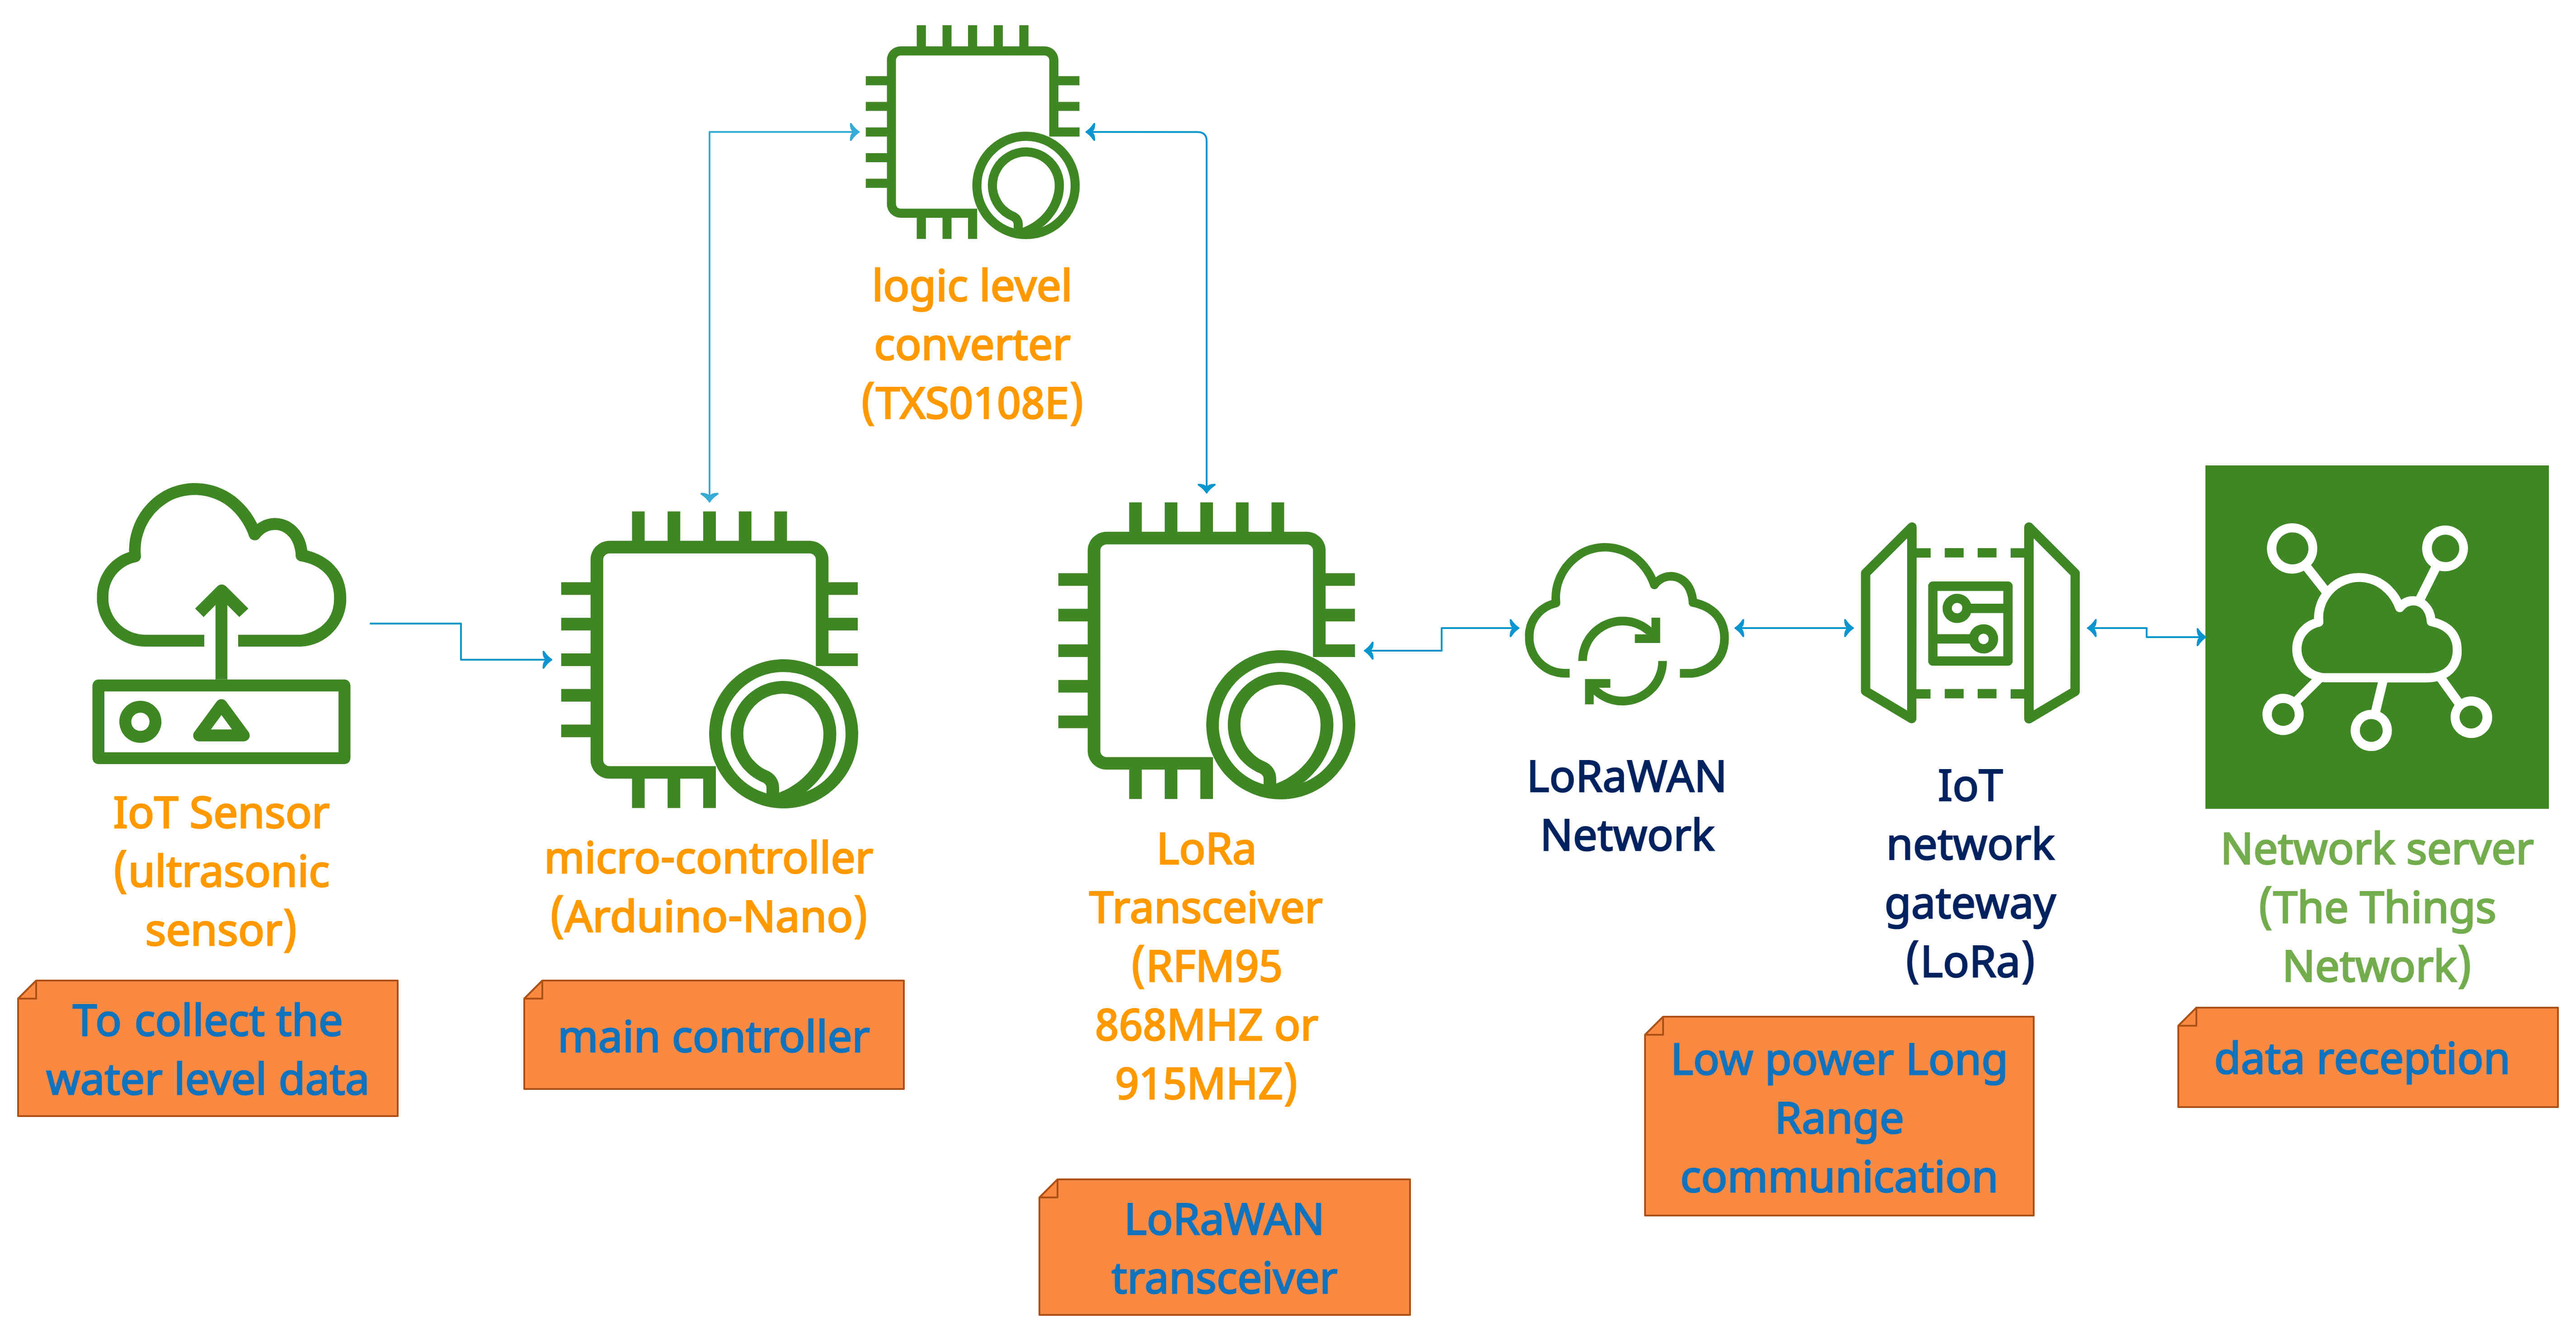
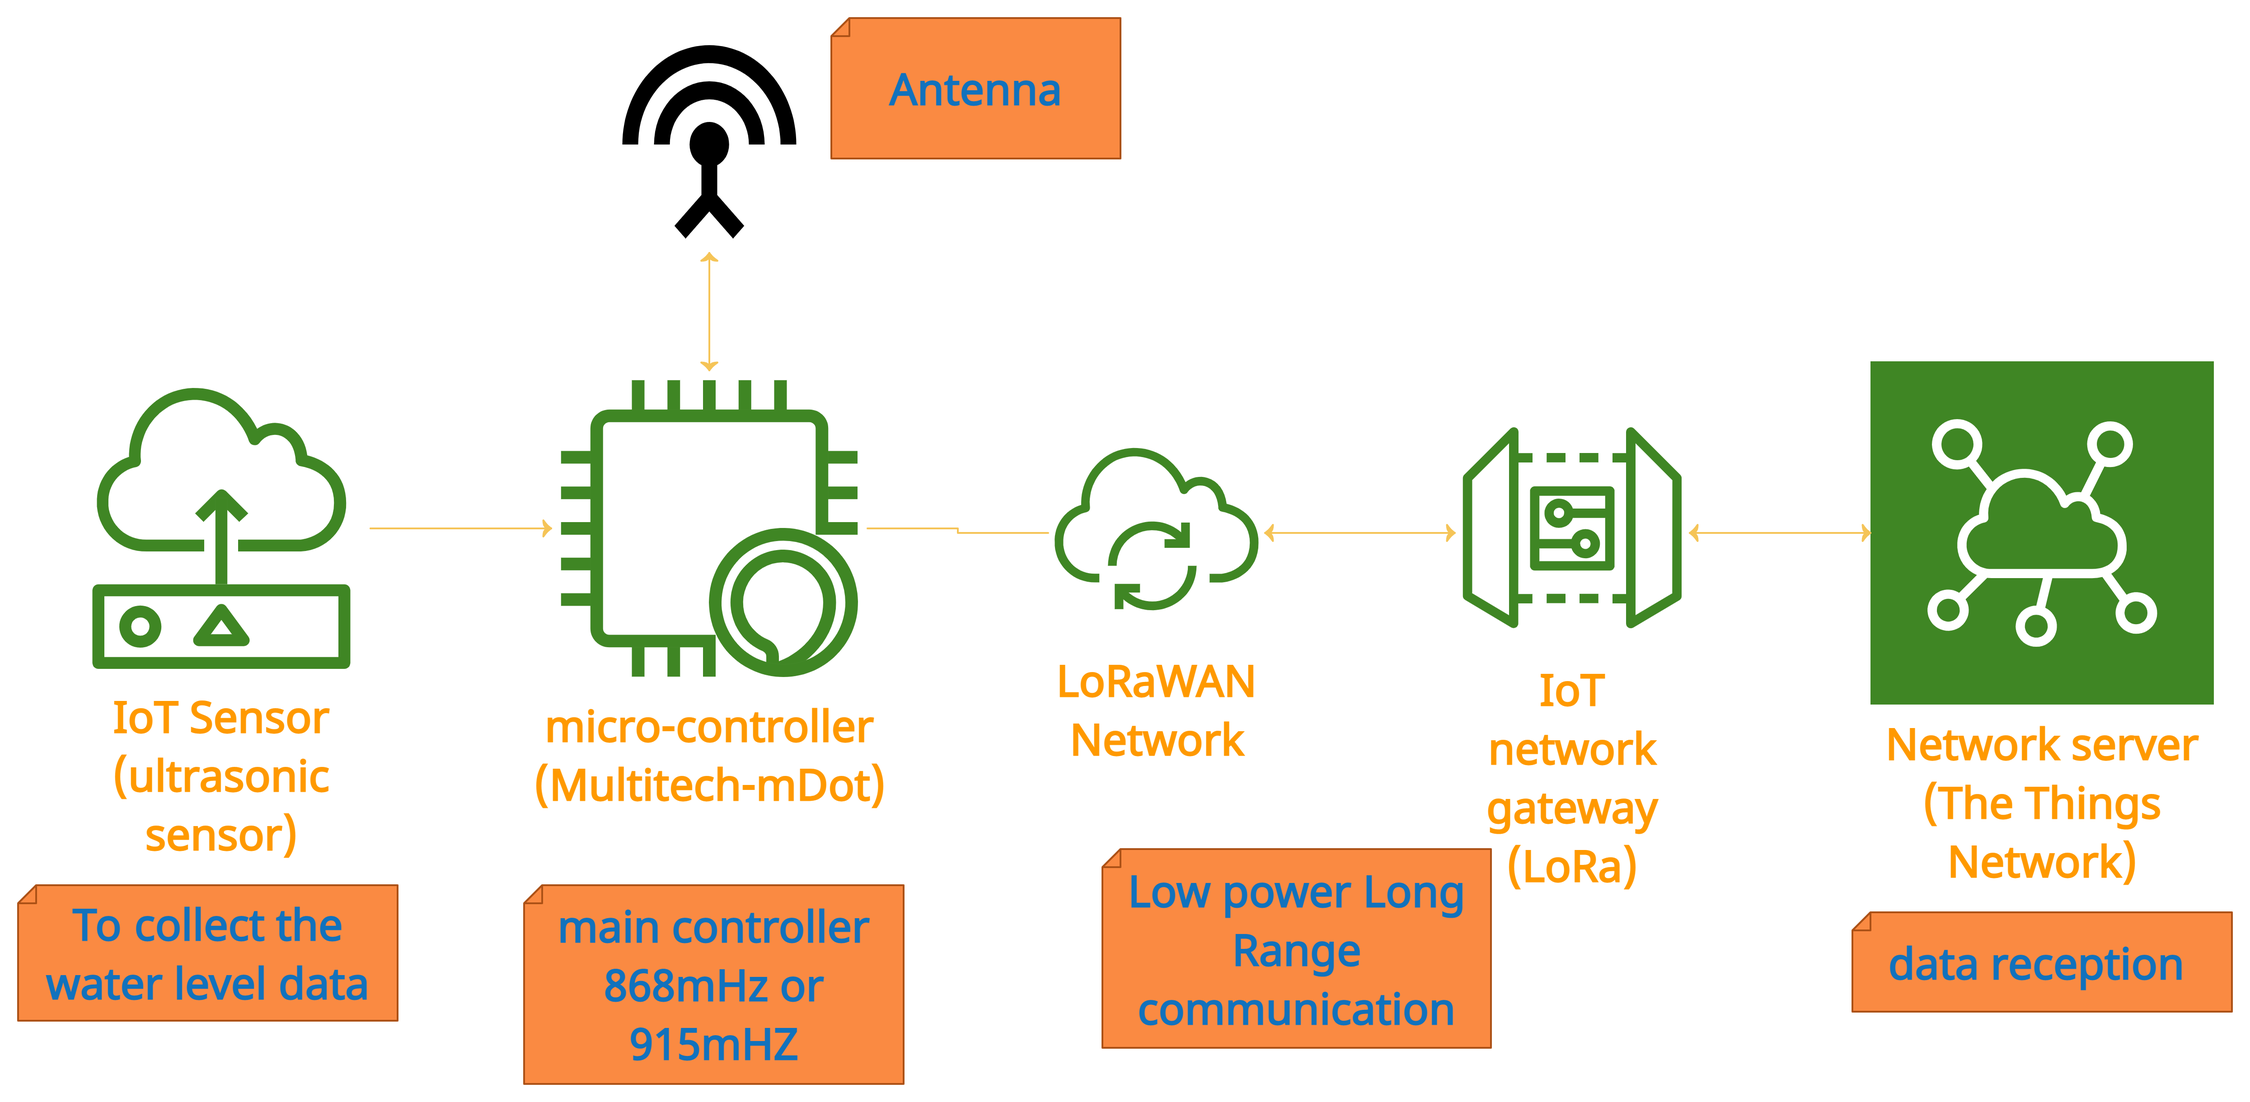
water_level_monitoring hardware

Changed region(s): [[0.0, 0.3115, 0.996, 0.9967], [0.2801, 0.0, 0.498, 0.3115]]

diff --git a/water_level_hardware/README.md b/water_level_hardware/README.md
@@ -9,7 +9,8 @@ Welcome to our IoT and machine learning session at the ARM DEV SUMMIT 2021. If y
 Over the next few hours, we will be diving into the Internet of Things and machine learning by building replicas of a device, which I developed to track and collect water level data in a river channel. Also, we will be analysing the data collected by the device deployed, using some machine learning tools and algorithms.
 ## :three: Hands-on :muscle: Let's build.
 In this section I will be taking you through the development steps of a device with the schematic diagram shown below.
-![Schematic diagram](/assets/img/schem2.jpg)
+![Schematic diagram](/assets/img/multi3.jpg)
 I developed the device to help me in collecting water level data in a river channel. It utilizes the LoRaWAN network to send water level data collected by a micro-controller (from an ultrasonic sensor) to a network server (TTN-The Things Network). The data is then re-routed to a time-series data base (InfluxDB on GCP) for storage and easier access.
 
-### :three.one: Component list / Item list
+### :arrow_down_small: Component list / Item list
+
